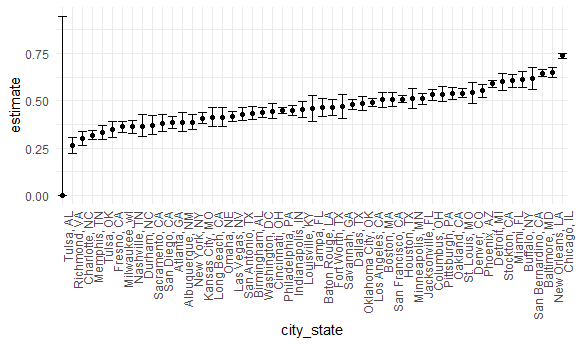
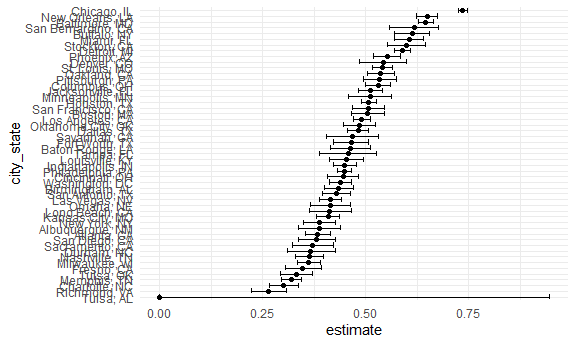
Finish Problem 3. Polish the plots for Problem 2.

diff --git a/p8105_hw5_sm5592.md b/p8105_hw5_sm5592.md
@@ -1,7 +1,7 @@
 Homework 5
 ================
 Shaolei Ma
-2023-11-05
+2023-11-06
 
 # Problem 1
 
@@ -9,17 +9,8 @@ First, import the data.
 
 ``` r
 homicide_df =
-  read_csv("data/homicide-data.csv")
+  read_csv("data/homicide-data.csv", show_col_types = FALSE)
 ```
-
-    ## Rows: 52179 Columns: 12
-    ## ── Column specification ────────────────────────────────────────────────────────
-    ## Delimiter: ","
-    ## chr (9): uid, victim_last, victim_first, victim_race, victim_age, victim_sex...
-    ## dbl (3): reported_date, lat, lon
-    ## 
-    ## ℹ Use `spec()` to retrieve the full column specification for this data.
-    ## ℹ Specify the column types or set `show_col_types = FALSE` to quiet this message.
 
 The data contains 52179 observations and 12 variables related to the
 victim’s biographical information and the location and disposition of
@@ -39,7 +30,20 @@ homicide_city_df =
   summarise(
     homicide_num = n(), 
     unsolved_num = sum(disposition == "Closed without arrest" | disposition == "Open/No arrest"))
+
+homicide_city_df |> 
+  head() |> 
+  knitr::kable()
 ```
+
+| city_state      | homicide_num | unsolved_num |
+|:----------------|-------------:|-------------:|
+| Albuquerque, NM |          378 |          146 |
+| Atlanta, GA     |          973 |          373 |
+| Baltimore, MD   |         2827 |         1825 |
+| Baton Rouge, LA |          424 |          196 |
+| Birmingham, AL  |          800 |          347 |
+| Boston, MA      |          614 |          310 |
 
 Then, the total number of homicides is 52179, and the total number of
 unsolved homicides is 26505.
@@ -108,10 +112,9 @@ for each city.
 ``` r
 unsolved_prop_df |> 
   mutate(city_state = fct_reorder(city_state, estimate)) |> 
-  ggplot(aes(x = city_state, y = estimate)) +
+  ggplot(aes(y = city_state, x = estimate)) +
   geom_point() +
-  geom_errorbar(aes(ymin = conf.low, ymax = conf.high)) +
-  theme(axis.text.x = element_text(angle = 90, hjust = 1)) # rotate labels
+  geom_errorbar(aes(xmin = conf.low, xmax = conf.high))
 ```
 
 <img src="p8105_hw5_sm5592_files/figure-gfm/unnamed-chunk-5-1.png" width="90%" />
@@ -125,7 +128,7 @@ narrow confidence interval.
 ``` r
 import_data = function(url_path = "data/problem2_data/", name) {
   
-  read_csv(str_c(url_path, name))
+  read_csv(str_c(url_path, name), show_col_types = F) # quiet the message
   
 }
 
@@ -142,154 +145,12 @@ participants_df =
     names_prefix = "week_",
     names_transform = list(week = as.numeric)
   )
-```
 
-    ## Rows: 1 Columns: 8
-    ## ── Column specification ────────────────────────────────────────────────────────
-    ## Delimiter: ","
-    ## dbl (8): week_1, week_2, week_3, week_4, week_5, week_6, week_7, week_8
-    ## 
-    ## ℹ Use `spec()` to retrieve the full column specification for this data.
-    ## ℹ Specify the column types or set `show_col_types = FALSE` to quiet this message.
-    ## Rows: 1 Columns: 8
-    ## ── Column specification ────────────────────────────────────────────────────────
-    ## Delimiter: ","
-    ## dbl (8): week_1, week_2, week_3, week_4, week_5, week_6, week_7, week_8
-    ## 
-    ## ℹ Use `spec()` to retrieve the full column specification for this data.
-    ## ℹ Specify the column types or set `show_col_types = FALSE` to quiet this message.
-    ## Rows: 1 Columns: 8
-    ## ── Column specification ────────────────────────────────────────────────────────
-    ## Delimiter: ","
-    ## dbl (8): week_1, week_2, week_3, week_4, week_5, week_6, week_7, week_8
-    ## 
-    ## ℹ Use `spec()` to retrieve the full column specification for this data.
-    ## ℹ Specify the column types or set `show_col_types = FALSE` to quiet this message.
-    ## Rows: 1 Columns: 8
-    ## ── Column specification ────────────────────────────────────────────────────────
-    ## Delimiter: ","
-    ## dbl (8): week_1, week_2, week_3, week_4, week_5, week_6, week_7, week_8
-    ## 
-    ## ℹ Use `spec()` to retrieve the full column specification for this data.
-    ## ℹ Specify the column types or set `show_col_types = FALSE` to quiet this message.
-    ## Rows: 1 Columns: 8
-    ## ── Column specification ────────────────────────────────────────────────────────
-    ## Delimiter: ","
-    ## dbl (8): week_1, week_2, week_3, week_4, week_5, week_6, week_7, week_8
-    ## 
-    ## ℹ Use `spec()` to retrieve the full column specification for this data.
-    ## ℹ Specify the column types or set `show_col_types = FALSE` to quiet this message.
-    ## Rows: 1 Columns: 8
-    ## ── Column specification ────────────────────────────────────────────────────────
-    ## Delimiter: ","
-    ## dbl (8): week_1, week_2, week_3, week_4, week_5, week_6, week_7, week_8
-    ## 
-    ## ℹ Use `spec()` to retrieve the full column specification for this data.
-    ## ℹ Specify the column types or set `show_col_types = FALSE` to quiet this message.
-    ## Rows: 1 Columns: 8
-    ## ── Column specification ────────────────────────────────────────────────────────
-    ## Delimiter: ","
-    ## dbl (8): week_1, week_2, week_3, week_4, week_5, week_6, week_7, week_8
-    ## 
-    ## ℹ Use `spec()` to retrieve the full column specification for this data.
-    ## ℹ Specify the column types or set `show_col_types = FALSE` to quiet this message.
-    ## Rows: 1 Columns: 8
-    ## ── Column specification ────────────────────────────────────────────────────────
-    ## Delimiter: ","
-    ## dbl (8): week_1, week_2, week_3, week_4, week_5, week_6, week_7, week_8
-    ## 
-    ## ℹ Use `spec()` to retrieve the full column specification for this data.
-    ## ℹ Specify the column types or set `show_col_types = FALSE` to quiet this message.
-    ## Rows: 1 Columns: 8
-    ## ── Column specification ────────────────────────────────────────────────────────
-    ## Delimiter: ","
-    ## dbl (8): week_1, week_2, week_3, week_4, week_5, week_6, week_7, week_8
-    ## 
-    ## ℹ Use `spec()` to retrieve the full column specification for this data.
-    ## ℹ Specify the column types or set `show_col_types = FALSE` to quiet this message.
-    ## Rows: 1 Columns: 8
-    ## ── Column specification ────────────────────────────────────────────────────────
-    ## Delimiter: ","
-    ## dbl (8): week_1, week_2, week_3, week_4, week_5, week_6, week_7, week_8
-    ## 
-    ## ℹ Use `spec()` to retrieve the full column specification for this data.
-    ## ℹ Specify the column types or set `show_col_types = FALSE` to quiet this message.
-    ## Rows: 1 Columns: 8
-    ## ── Column specification ────────────────────────────────────────────────────────
-    ## Delimiter: ","
-    ## dbl (8): week_1, week_2, week_3, week_4, week_5, week_6, week_7, week_8
-    ## 
-    ## ℹ Use `spec()` to retrieve the full column specification for this data.
-    ## ℹ Specify the column types or set `show_col_types = FALSE` to quiet this message.
-    ## Rows: 1 Columns: 8
-    ## ── Column specification ────────────────────────────────────────────────────────
-    ## Delimiter: ","
-    ## dbl (8): week_1, week_2, week_3, week_4, week_5, week_6, week_7, week_8
-    ## 
-    ## ℹ Use `spec()` to retrieve the full column specification for this data.
-    ## ℹ Specify the column types or set `show_col_types = FALSE` to quiet this message.
-    ## Rows: 1 Columns: 8
-    ## ── Column specification ────────────────────────────────────────────────────────
-    ## Delimiter: ","
-    ## dbl (8): week_1, week_2, week_3, week_4, week_5, week_6, week_7, week_8
-    ## 
-    ## ℹ Use `spec()` to retrieve the full column specification for this data.
-    ## ℹ Specify the column types or set `show_col_types = FALSE` to quiet this message.
-    ## Rows: 1 Columns: 8
-    ## ── Column specification ────────────────────────────────────────────────────────
-    ## Delimiter: ","
-    ## dbl (8): week_1, week_2, week_3, week_4, week_5, week_6, week_7, week_8
-    ## 
-    ## ℹ Use `spec()` to retrieve the full column specification for this data.
-    ## ℹ Specify the column types or set `show_col_types = FALSE` to quiet this message.
-    ## Rows: 1 Columns: 8
-    ## ── Column specification ────────────────────────────────────────────────────────
-    ## Delimiter: ","
-    ## dbl (8): week_1, week_2, week_3, week_4, week_5, week_6, week_7, week_8
-    ## 
-    ## ℹ Use `spec()` to retrieve the full column specification for this data.
-    ## ℹ Specify the column types or set `show_col_types = FALSE` to quiet this message.
-    ## Rows: 1 Columns: 8
-    ## ── Column specification ────────────────────────────────────────────────────────
-    ## Delimiter: ","
-    ## dbl (8): week_1, week_2, week_3, week_4, week_5, week_6, week_7, week_8
-    ## 
-    ## ℹ Use `spec()` to retrieve the full column specification for this data.
-    ## ℹ Specify the column types or set `show_col_types = FALSE` to quiet this message.
-    ## Rows: 1 Columns: 8
-    ## ── Column specification ────────────────────────────────────────────────────────
-    ## Delimiter: ","
-    ## dbl (8): week_1, week_2, week_3, week_4, week_5, week_6, week_7, week_8
-    ## 
-    ## ℹ Use `spec()` to retrieve the full column specification for this data.
-    ## ℹ Specify the column types or set `show_col_types = FALSE` to quiet this message.
-    ## Rows: 1 Columns: 8
-    ## ── Column specification ────────────────────────────────────────────────────────
-    ## Delimiter: ","
-    ## dbl (8): week_1, week_2, week_3, week_4, week_5, week_6, week_7, week_8
-    ## 
-    ## ℹ Use `spec()` to retrieve the full column specification for this data.
-    ## ℹ Specify the column types or set `show_col_types = FALSE` to quiet this message.
-    ## Rows: 1 Columns: 8
-    ## ── Column specification ────────────────────────────────────────────────────────
-    ## Delimiter: ","
-    ## dbl (8): week_1, week_2, week_3, week_4, week_5, week_6, week_7, week_8
-    ## 
-    ## ℹ Use `spec()` to retrieve the full column specification for this data.
-    ## ℹ Specify the column types or set `show_col_types = FALSE` to quiet this message.
-    ## Rows: 1 Columns: 8
-    ## ── Column specification ────────────────────────────────────────────────────────
-    ## Delimiter: ","
-    ## dbl (8): week_1, week_2, week_3, week_4, week_5, week_6, week_7, week_8
-    ## 
-    ## ℹ Use `spec()` to retrieve the full column specification for this data.
-    ## ℹ Specify the column types or set `show_col_types = FALSE` to quiet this message.
-
-``` r
 participants_df |> 
   ggplot(aes(x = week, y = observation, group = id, color = id)) +
   geom_line() +
-  facet_grid(. ~ arm)
+  facet_grid(. ~ arm) +
+  labs(title = "Observations in Different Arms Over Weeks")
 ```
 
 <img src="p8105_hw5_sm5592_files/figure-gfm/unnamed-chunk-6-1.png" width="90%" />
@@ -328,12 +189,12 @@ sim_results_df |>
 
 |  mu | iter | estimate | p.value |
 |----:|-----:|---------:|--------:|
-|   0 |    1 |    0.538 |   0.431 |
-|   0 |    2 |    1.034 |   0.224 |
-|   0 |    3 |   -0.497 |   0.675 |
-|   0 |    4 |   -0.709 |   0.583 |
-|   0 |    5 |   -0.021 |   0.980 |
-|   0 |    6 |   -1.004 |   0.388 |
+|   0 |    1 |   -1.171 |   0.192 |
+|   0 |    2 |   -1.411 |   0.054 |
+|   0 |    3 |    0.681 |   0.448 |
+|   0 |    4 |    0.160 |   0.871 |
+|   0 |    5 |    0.533 |   0.519 |
+|   0 |    6 |    0.312 |   0.756 |
 
 For $\mu={1,2,3,4,5,6}$:
 
@@ -350,26 +211,46 @@ sim2_results_df |>
   group_by(mu) |> 
   summarise(power = sum(p.value < 0.05) / n()) |> 
   ggplot(aes(x = mu, y = power)) + 
-  geom_line()
+  geom_point() +
+  geom_line() +
+  labs(title = TeX("Power for Different $\\mu$"), x = TeX("$\\mu$"))
 ```
 
 <img src="p8105_hw5_sm5592_files/figure-gfm/unnamed-chunk-8-1.png" width="90%" />
+
+The power and effect size are positively correlated. With the increase
+of the effect size from one to six, the power increases from near 0.2 to
+near 1.
 
 ``` r
 sim2_results_df |> 
   group_by(mu) |> 
   summarise(mean_estimate = mean(estimate)) |> 
   ggplot(aes(x = mu, y = mean_estimate)) +
-  geom_line(aes(color = "black")) +
+  geom_line(aes(color = "all", lty = "all")) +
   geom_line(data = 
               sim2_results_df |>
               filter(p.value < 0.05) |> 
               group_by(mu) |> 
               summarise(mean_estimate = mean(estimate)),
-            aes(color = "red")) +
-  scale_color_manual(name = "", 
-                     values = c("black" = "black", "red" = "red"), 
-                     labels = c('all','rejected'))
+            aes(color = "rejected", lty = "rejected")) +
+  scale_color_manual(name = "", values = c("all" = "grey", "rejected" = "red")) +
+  scale_linetype_manual(name = "", values = c("all" = 2, "rejected" = 1)) +
+  labs(title = TeX("Average Estimate for Different $\\mu$"), x = TeX("$\\mu$"), y = TeX("Average Estimate of $\\hat{\\mu}$"))
 ```
 
 <img src="p8105_hw5_sm5592_files/figure-gfm/unnamed-chunk-9-1.png" width="90%" />
+
+When $\mu$ is small, the sample average of $\hat\mu$ across tests for
+which the null is rejected is larger than the true value, while in the
+case when $\mu$ is large ($=4,5,6$), the sample average of $\hat\mu$ for
+which the null is rejected is approximately equal to the true value.
+
+The average estimate follows the distribution:
+$\bar X\sim N(\mu, \frac{\sigma^2}{n}).$ If to reject $H_0: \mu=0$, the
+estimate has to be larger than
+$z_{1-\alpha}\frac{\sigma}{\sqrt n}=1.96*\frac{5}{\sqrt{30}}\approx 1.7527.$
+Therefore, as $\sigma$ and $n$ are equal, there will be higher
+possibility to reject the null as $\mu$ increases. When more $\hat\mu s$
+are rejected, the gap between the average estimate and the real value is
+greater. Therefore, the gap decreases as $\mu$ increases.
